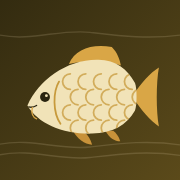
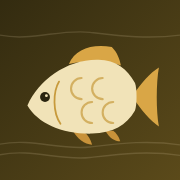
Ikona kapra: méně šupin, bez vousku
Claude-Session: https://claude.ai/code/session_01UWZNZxAnYmuNPYuifCfCxD

Changed region(s): [[0.3333, 0.3889, 0.7778, 0.75], [0.1389, 0.5833, 0.2222, 0.6667]]

diff --git a/index.html b/index.html
@@ -252,9 +252,8 @@ ul.plain li{margin:3px 0}
       <symbol id="trout" viewBox="0 0 84 52">
         <path fill="currentColor" opacity=".8" d="M27 11C33 3 45 1 54 4c1 3 1 6 1 8-9-3-19-3-28-1z"/>
         <path fill="currentColor" d="M3 29C9 16 23 9 39 9c11 0 18 5 22 12l14-10c2-1 4 0 3 2l-3 16 3 16c1 2-1 3-3 2L61 37c-4 7-11 11-22 11C23 48 9 41 3 29z"/>
-        <g fill="none" stroke="var(--head-a)" stroke-opacity=".35" stroke-width="1.6" stroke-linecap="round"><path d="M30 17a5 5 0 0 0 0 10M39 17a5 5 0 0 0 0 10M48 17a5 5 0 0 0 0 10M34 27a5 5 0 0 0 0 10M43 27a5 5 0 0 0 0 10M52 27a5 5 0 0 0 0 9"/><path d="M21 19c-3 6-3 13 0 19"/></g>
+        <g fill="none" stroke="var(--head-a)" stroke-opacity=".35" stroke-width="1.6" stroke-linecap="round"><path d="M34 17a5 5 0 0 0 0 10M44 17a5 5 0 0 0 0 10M39 28a5 5 0 0 0 0 10M49 28a5 5 0 0 0 0 10"/><path d="M21 19c-3 6-3 13 0 19"/></g>
         <circle cx="12" cy="26" r="2.4" fill="var(--head-a)"/>
-        <path d="M5 31c-1 4 0 7 3 8" fill="none" stroke="currentColor" stroke-width="1.6" stroke-linecap="round"/>
       </symbol>
       <symbol id="fish-sm" viewBox="0 0 84 52"><path fill="currentColor" d="M4 26c8-12 22-19 38-19 10 0 18 4 24 10l12-9c1-1 3 0 3 1l-3 17 3 17c0 1-2 2-3 1l-12-9c-6 6-14 10-24 10C26 45 12 38 4 26z"/></symbol>
     </defs>

diff --git a/src/index.template.html b/src/index.template.html
@@ -85,9 +85,8 @@ html,body{margin:0}
       <symbol id="trout" viewBox="0 0 84 52">
         <path fill="currentColor" opacity=".8" d="M27 11C33 3 45 1 54 4c1 3 1 6 1 8-9-3-19-3-28-1z"/>
         <path fill="currentColor" d="M3 29C9 16 23 9 39 9c11 0 18 5 22 12l14-10c2-1 4 0 3 2l-3 16 3 16c1 2-1 3-3 2L61 37c-4 7-11 11-22 11C23 48 9 41 3 29z"/>
-        <g fill="none" stroke="var(--head-a)" stroke-opacity=".35" stroke-width="1.6" stroke-linecap="round"><path d="M30 17a5 5 0 0 0 0 10M39 17a5 5 0 0 0 0 10M48 17a5 5 0 0 0 0 10M34 27a5 5 0 0 0 0 10M43 27a5 5 0 0 0 0 10M52 27a5 5 0 0 0 0 9"/><path d="M21 19c-3 6-3 13 0 19"/></g>
+        <g fill="none" stroke="var(--head-a)" stroke-opacity=".35" stroke-width="1.6" stroke-linecap="round"><path d="M34 17a5 5 0 0 0 0 10M44 17a5 5 0 0 0 0 10M39 28a5 5 0 0 0 0 10M49 28a5 5 0 0 0 0 10"/><path d="M21 19c-3 6-3 13 0 19"/></g>
         <circle cx="12" cy="26" r="2.4" fill="var(--head-a)"/>
-        <path d="M5 31c-1 4 0 7 3 8" fill="none" stroke="currentColor" stroke-width="1.6" stroke-linecap="round"/>
       </symbol>
       <symbol id="fish-sm" viewBox="0 0 84 52"><path fill="currentColor" d="M4 26c8-12 22-19 38-19 10 0 18 4 24 10l12-9c1-1 3 0 3 1l-3 17 3 17c0 1-2 2-3 1l-12-9c-6 6-14 10-24 10C26 45 12 38 4 26z"/></symbol>
     </defs>

diff --git a/sw.js b/sw.js
@@ -1,5 +1,5 @@
 // Kapr: jednoduchá offline záloha. Vždy zkouší síť, při výpadku použije poslední uloženou verzi.
-const CACHE = "kapr-v1";
+const CACHE = "kapr-v2";
 self.addEventListener("install", () => self.skipWaiting());
 self.addEventListener("activate", (e) => e.waitUntil(self.clients.claim()));
 self.addEventListener("fetch", (e) => {
